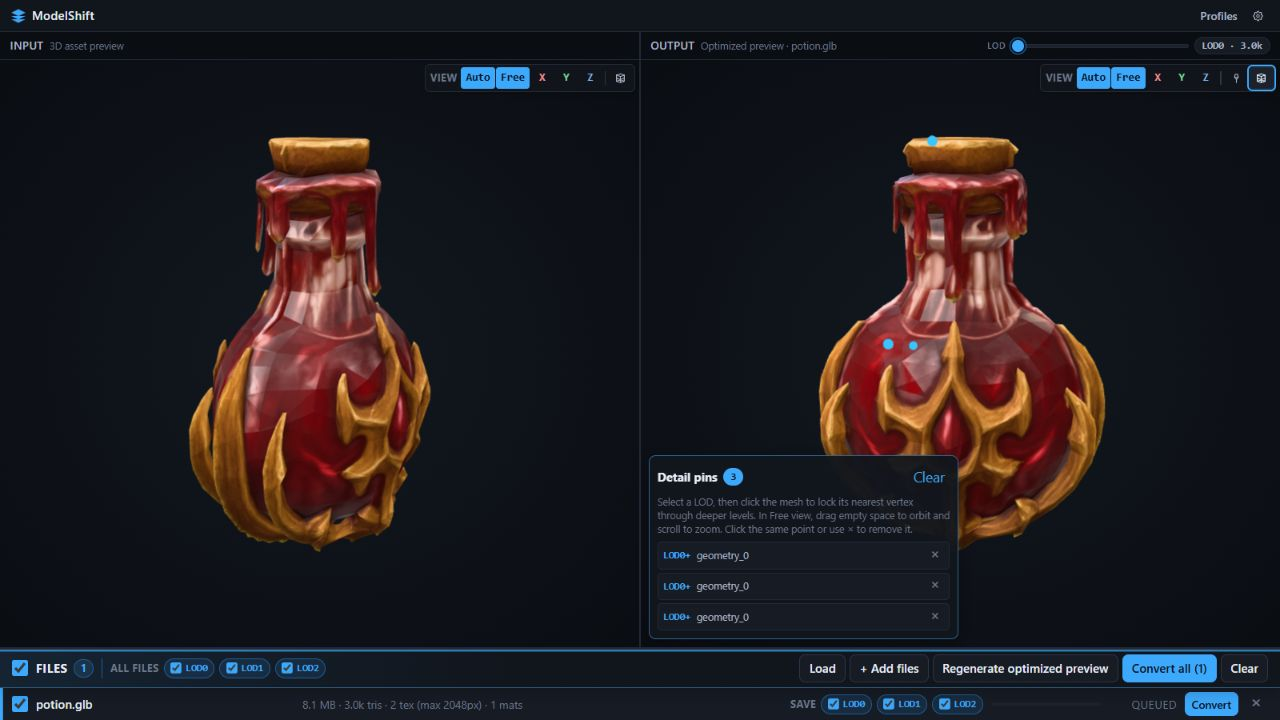
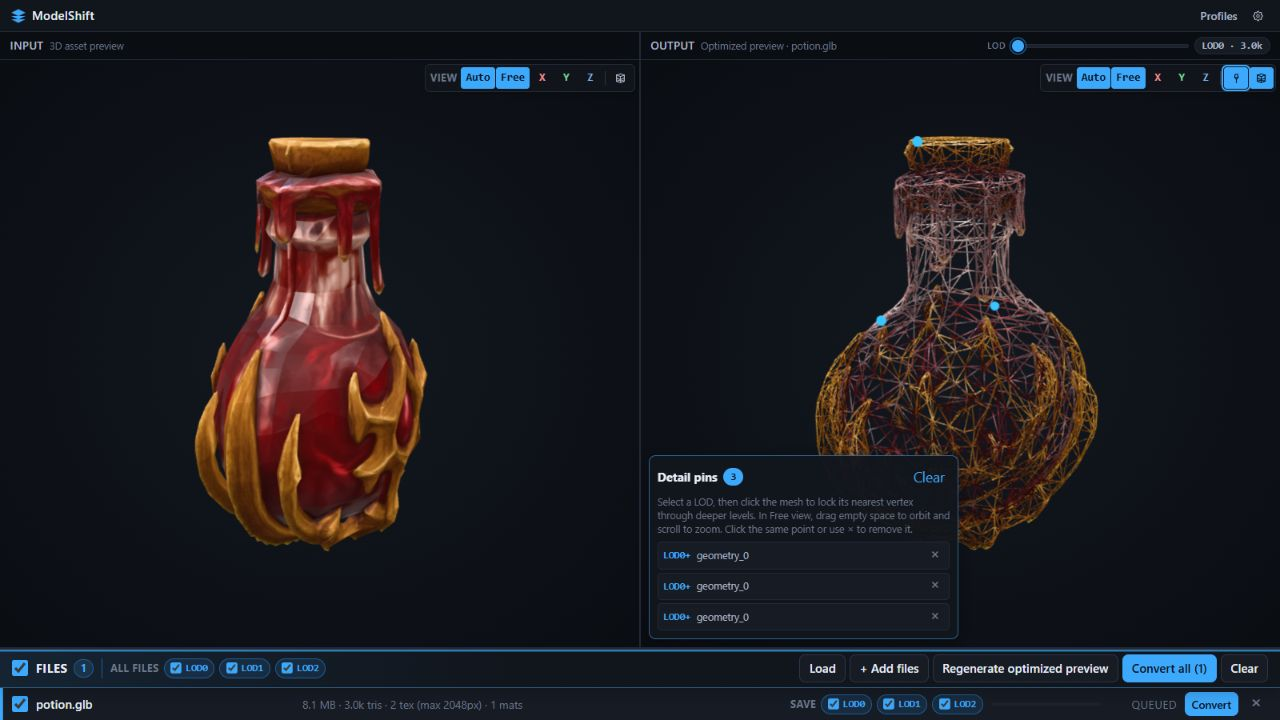
docs: add wireframe LOD pinning walkthrough

diff --git a/docs/HOW_TO_USE.md b/docs/HOW_TO_USE.md
@@ -49,13 +49,13 @@ For precise placement, turn on the output viewer's **Toggle wireframe** control 
 
 ![Output viewer in wireframe mode with three pinned vertices](images/modelshift-08-wireframe-multiple-pins.png)
 
-Use the **Preview level of detail** slider to compare the same pins across the generated levels. In this example, LOD0 is the original 3.0k-triangle mesh, LOD1 is reduced to 1.5k triangles, and LOD2 is reduced to 948 triangles. The blue markers and the **LOD0+** entries in the **Detail pins** list show that these pins are carried through the deeper levels.
+Keep wireframe enabled and use the **Preview level of detail** slider to compare the same pins across the generated levels. In this example, LOD0 is the original 3.0k-triangle mesh, LOD1 is reduced to 1.5k triangles, and LOD2 is reduced to 948 triangles. The blue markers and the **LOD0+** entries in the **Detail pins** list show that these pins are carried through the deeper levels.
 
-![LOD0 preview with three pinned vertices](images/modelshift-09-lod0-multiple-pins.png)
+![LOD0 wireframe preview with three pinned vertices](images/modelshift-09-lod0-multiple-pins.png)
 
-![LOD1 preview with three pinned vertices](images/modelshift-10-lod1-multiple-pins.png)
+![LOD1 wireframe preview with three pinned vertices](images/modelshift-10-lod1-multiple-pins.png)
 
-![LOD2 preview with three pinned vertices](images/modelshift-11-lod2-multiple-pins.png)
+![LOD2 wireframe preview with three pinned vertices](images/modelshift-11-lod2-multiple-pins.png)
 
 If you change a pin after preview generation, exit pin-edit mode and click **Regenerate optimized preview** so the cached optimization includes the new pin.
 
